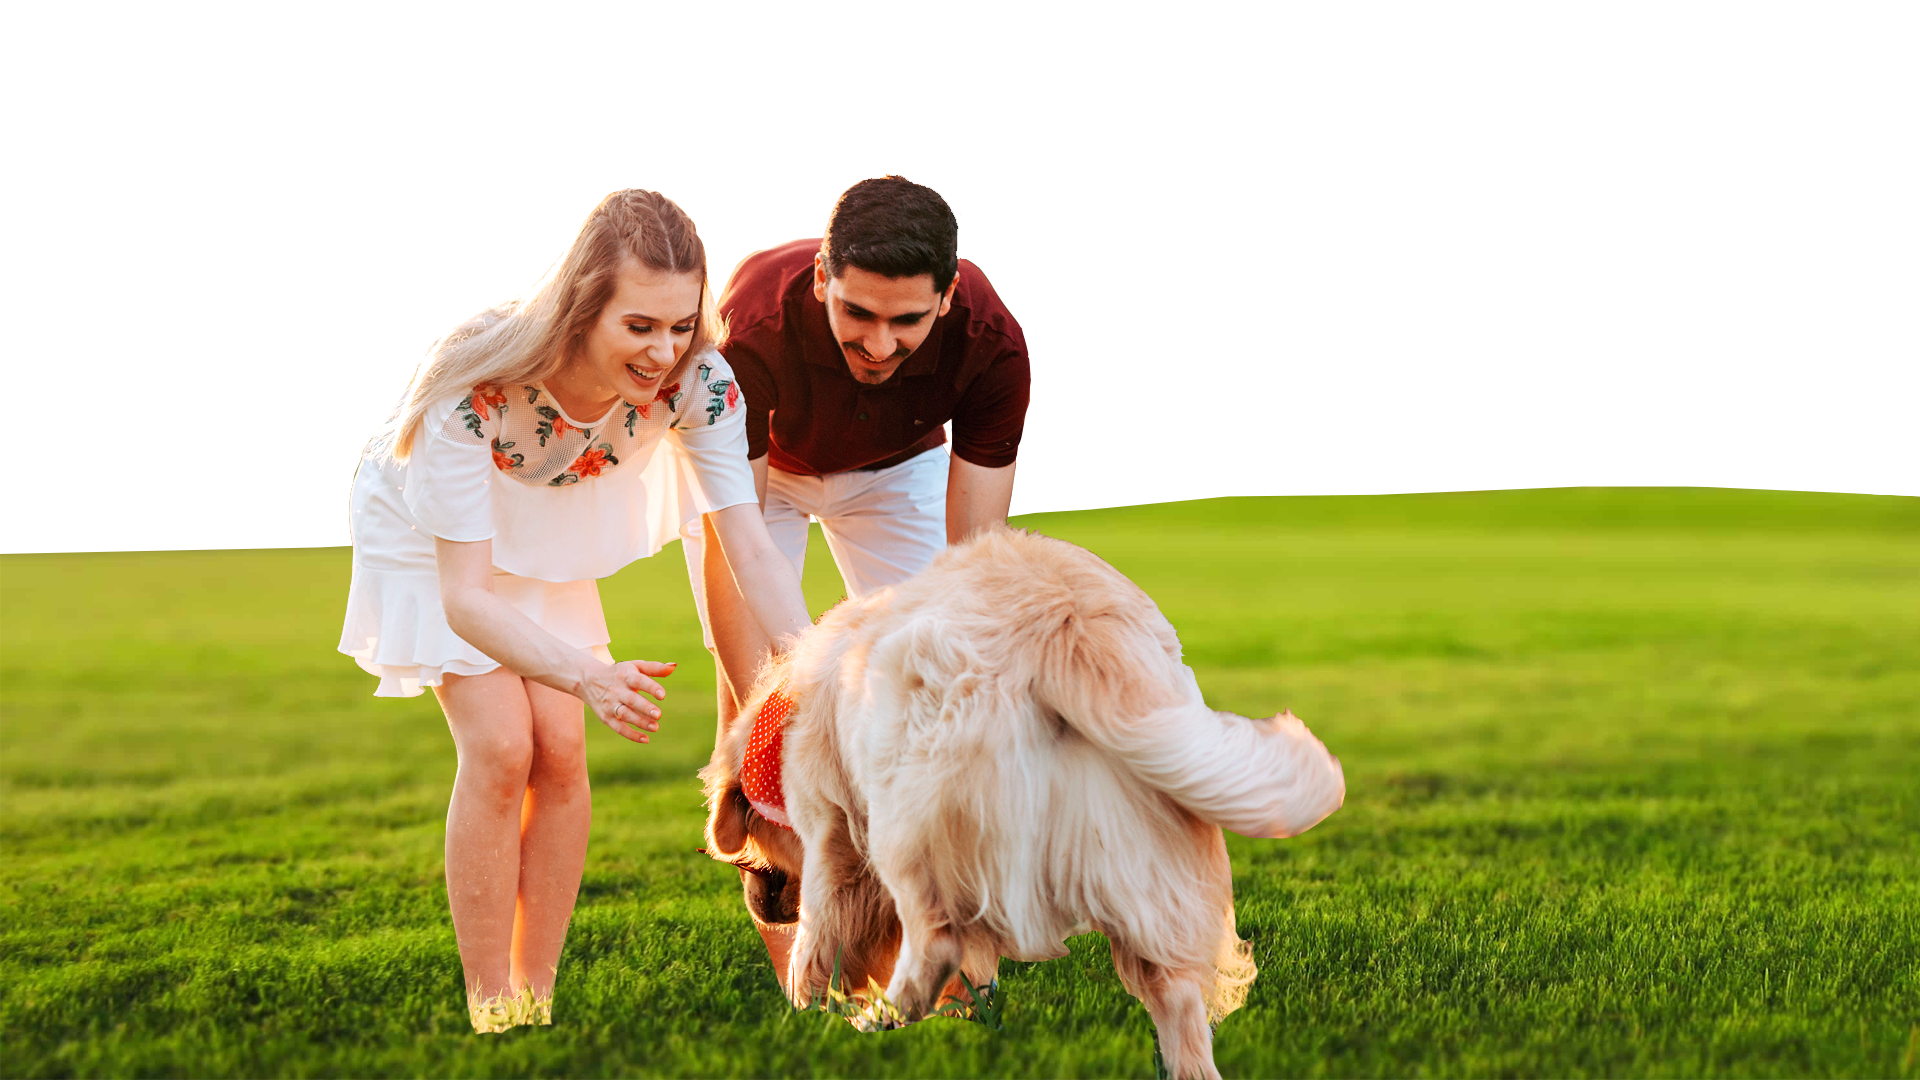
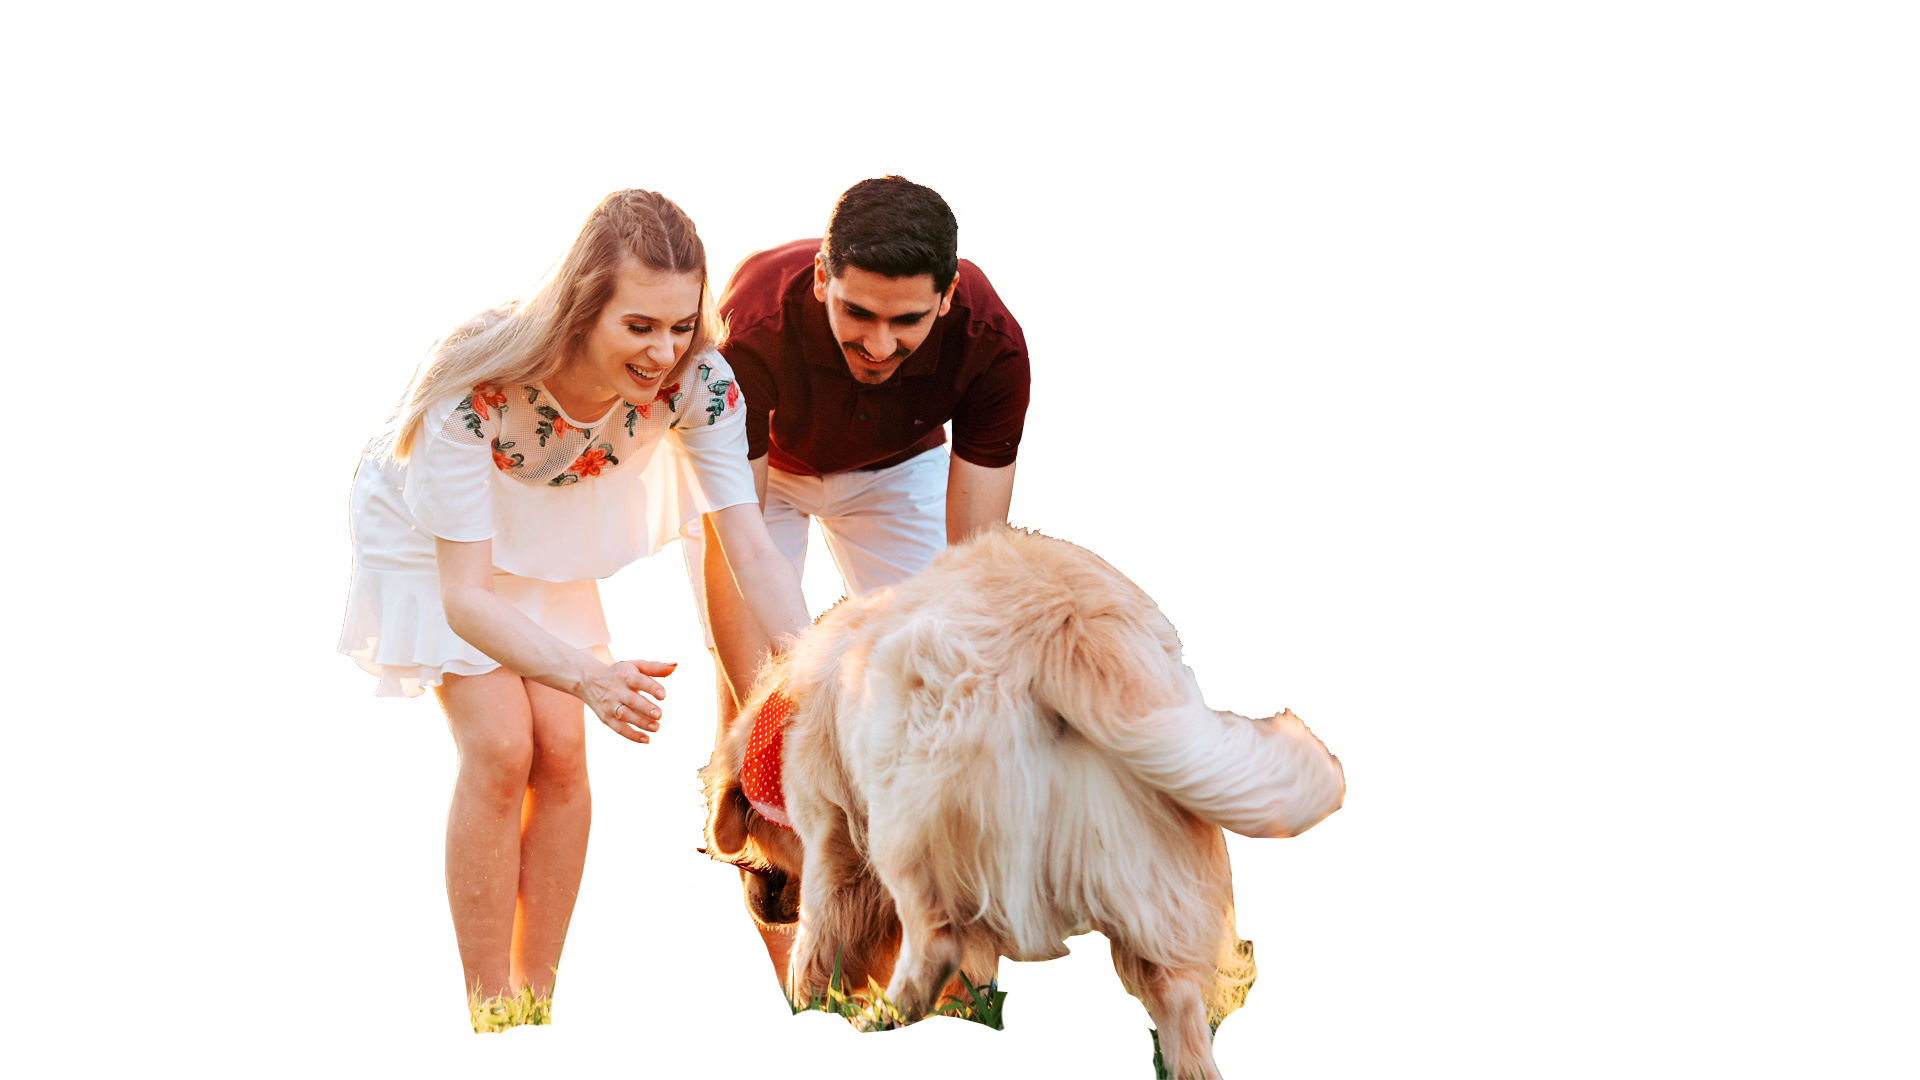
Changes 10/02/2021: Fixing some styling issues Adding the footer batch in the main page

diff --git a/src/components/Home/Banner/Banner.js b/src/components/Home/Banner/Banner.js
@@ -2,29 +2,18 @@ import React from 'react';
 
 import classes from './Banner.module.css';
 import {Parallax} from 'react-parallax';
-// import background from '../../../assets/banner_background.png';
-import sky from '../../../assets/sky.png';
+import background from '../../../assets/background_back.png'; // change the name
+// import sky from '../../../assets/sky.png';
 import people from '../../../assets/people.png'
 import grass from '../../../assets/grass.png'
 
 
 const Banner = () => {
-    // const [offsetY, setOffsetY] = useState(0);
-
-    // const handleScroll = () => {
-    //     return setOffsetY(window.pageYOffset);
-    // }
-
-    // useEffect(() => {
-    //     window.addEventListener('scroll', handleScroll);
-
-    //     return window.removeEventListener('scroll', handleScroll);
-    // },[])
 
     return(
-        <Parallax  bgImage={sky} strength={150} >
-            <Parallax bgImage={people} strength={150}>
-                <Parallax bgImage={grass} strength={0}>
+        <Parallax  bgImage={background} strength={200} >
+            <Parallax bgImage={people} strength={50}>
+                <Parallax bgImage={grass} strength={-100}>
                     <div className = {classes.Banner}>
                             <h1>Life is better when you're not alone!</h1>
                             <h2>Open your home and your heart</h2>

diff --git a/src/components/Home/HomeFooter/BatchTape/BatchTape.js b/src/components/Home/HomeFooter/BatchTape/BatchTape.js
@@ -1,10 +1,23 @@
 import React from 'react';
 
+import Container from 'react-bootstrap/Container'
+import Row from 'react-bootstrap/Row';
+import Col from 'react-bootstrap/Col';
 import classes from './BatchTape.module.css';
+
+import batch from '../../../../assets/batches.png';
 
 const batchTape = () => {
     return(
-        <div className={classes.BatchTape}></div>
+        <div className={classes.BatchTape}>
+            <Container fluid>
+                <Row>
+                    <Col>
+                        <img src={batch} alt="sponsors"/>
+                    </Col>
+                </Row>
+            </Container>
+        </div>
     )
 }
 

diff --git a/src/containers/DogsPanelControl/DogsPanelControl.js b/src/containers/DogsPanelControl/DogsPanelControl.js
@@ -1,13 +1,21 @@
 import React, { Component } from 'react';
 
+import Container from 'react-bootstrap/Container';
+import Row from 'react-bootstrap/Row';
+import Col from 'react-bootstrap/Col';
+
+import DogsBanner from '../../components/Dogs/DogsBanner/DogsBanner';
+
 
 class DogsPanelControl extends Component {
     
     render() {
         return(
-            <div>
-                <h1>DogsPanelControl</h1>
-            </div>
+            <Container fluid>
+                <Row>
+                    <DogsBanner/>
+                </Row>
+            </Container>
         )
     }   
 }

diff --git a/src/components/Footer/FooterNavigation/FooterNavigation.module.css b/src/components/Footer/FooterNavigation/FooterNavigation.module.css
@@ -1,11 +1,11 @@
 .FooterNavigation{
-    margin-left: 50vh;
+    margin-left: 45vh;
     margin-top: 15%;
 }
 
 .FooterNavigation ul{
     list-style: none;
-    display: vertical;
+    text-align: center;
     height: 100%;
 }
 
@@ -13,6 +13,7 @@
     text-decoration: none;
     padding: 2px 10px;
     box-sizing: border-box;
+    align-items: center;
     font-weight: bold;
 }
 

diff --git a/src/components/Home/AppDetails/AppDetailsCotainer/AppDetailsCotainer.module.css b/src/components/Home/AppDetails/AppDetailsCotainer/AppDetailsCotainer.module.css
@@ -16,16 +16,19 @@
     margin-left: auto;
     margin-right: auto;
     display: block;
+    width: 64px;
+    height: 64px;
 }
 
 .Container h1{
     
     text-align: center;
-    color: #191919;
+    color: #353535;
 }
 
 .Container p{
-    padding: 50px 50px 50px;
+    padding: 50px 100px 100px;
+    text-align: left;
     color: #787878;
     font-size: 18px;
 }

diff --git a/src/components/Home/HomeFooter/Banner/Banner.module.css b/src/components/Home/HomeFooter/Banner/Banner.module.css
@@ -1,5 +1,5 @@
 .Banner{
-    height: 50vh;
+    height: 60vh;
     width: 100%;
     background-image: url("../../../../assets/home-footer.png");
     align-items: justify;
@@ -14,7 +14,7 @@
 
 .Inner{
     border: 2px solid transparent;
-    margin-top: 5%;
+    margin-top: 8%;
     width: 50%;
     margin-right: auto;
     margin-left: auto;

diff --git a/src/components/Dogs/DogsBanner/DogsBanner.js b/src/components/Dogs/DogsBanner/DogsBanner.js
@@ -1,0 +1,7 @@
+import React from 'react';
+
+import classes from './DogsBanner.module.css';
+
+const dogsBanner = () => <div className={classes.DogsBanner}></div>
+
+export default dogsBanner;

diff --git a/src/components/Home/HomeFooter/BatchTape/BatchTape.module.css b/src/components/Home/HomeFooter/BatchTape/BatchTape.module.css
@@ -3,3 +3,9 @@
     width: 100%;
     background: #fff;
 }
+
+
+.BatchTape img{
+    width: 100%;
+}
+

diff --git a/src/components/Dogs/DogsBanner/DogsBanner.module.css b/src/components/Dogs/DogsBanner/DogsBanner.module.css
@@ -1,0 +1,5 @@
+.DogsBanner{
+    height: 30vh;
+    width: 100%;
+    background-color: black;
+}

diff --git a/src/components/Dogs/DogsPanel/DogsPanel.js b/src/components/Dogs/DogsPanel/DogsPanel.js
@@ -1,0 +1,2 @@
+import React from 'react';
+
